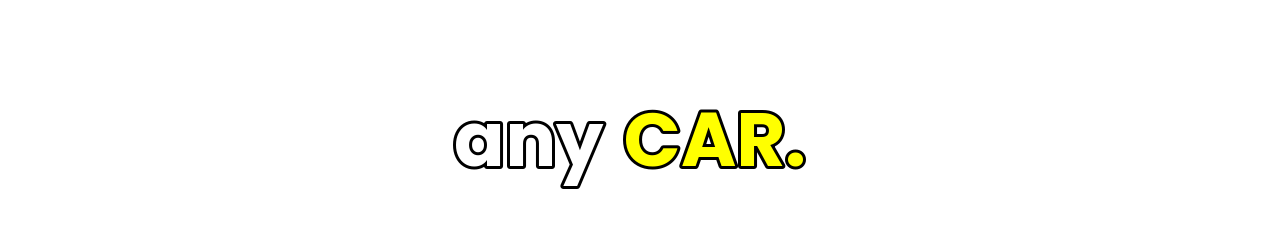
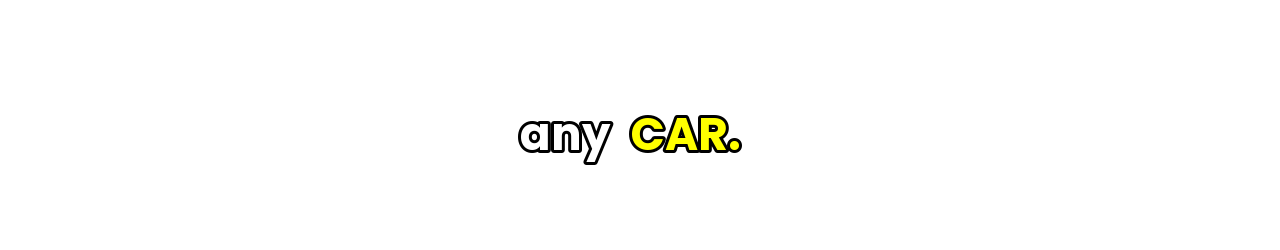
Add voice style presets to Custom Video Generator

Changed region(s): [[0.3438, 0.42, 0.6562, 0.756]]

diff --git a/voice_app.py b/voice_app.py
@@ -1236,6 +1236,47 @@ elif page == "🎬 Custom Video Generator":
     )
 
     voice_id = selected_voice["value"]
+    voice_style = st.selectbox(
+            "🎭 Voice Style",
+            [
+                "Custom",
+                "YouTube Narration",
+                "Storytelling",
+                "News Reporter",
+                "Documentary",
+                "YouTube Shorts"
+            ]
+            )
+    speed = 0
+    pitch = 0
+    if voice_style == "Storytelling":
+        speed = -15
+        pitch = -10
+    
+    elif voice_style == "News Reporter":
+        speed = 10
+    
+    elif voice_style == "Documentary":
+        speed = -10
+        pitch = -15
+    
+    elif voice_style == "YouTube Shorts":
+        speed = 25
+        pitch = 10
+    
+    if voice_style == "Custom":
+        speed = st.slider(
+            "⚡ Voice Speed (%)",
+            -50, 50, 0, 5
+            )
+        pitch = st.slider(
+            "🎵 Voice Pitch (Hz)",
+            -50, 50, 0, 5
+            )
+    
+        st.info(
+            f"Speed: {speed}% | Pitch: {pitch}Hz"
+        )
 
     st.divider()
     st.subheader("🎵 Background Music")
